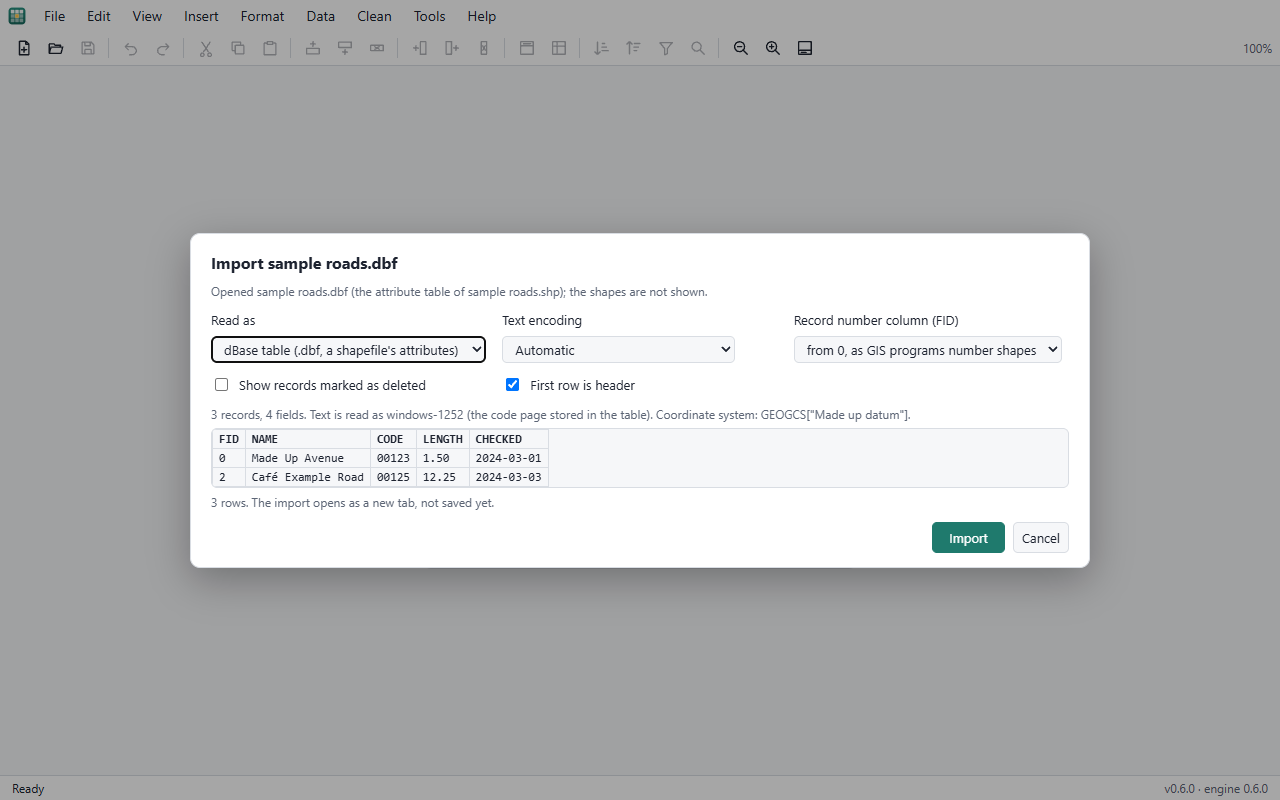
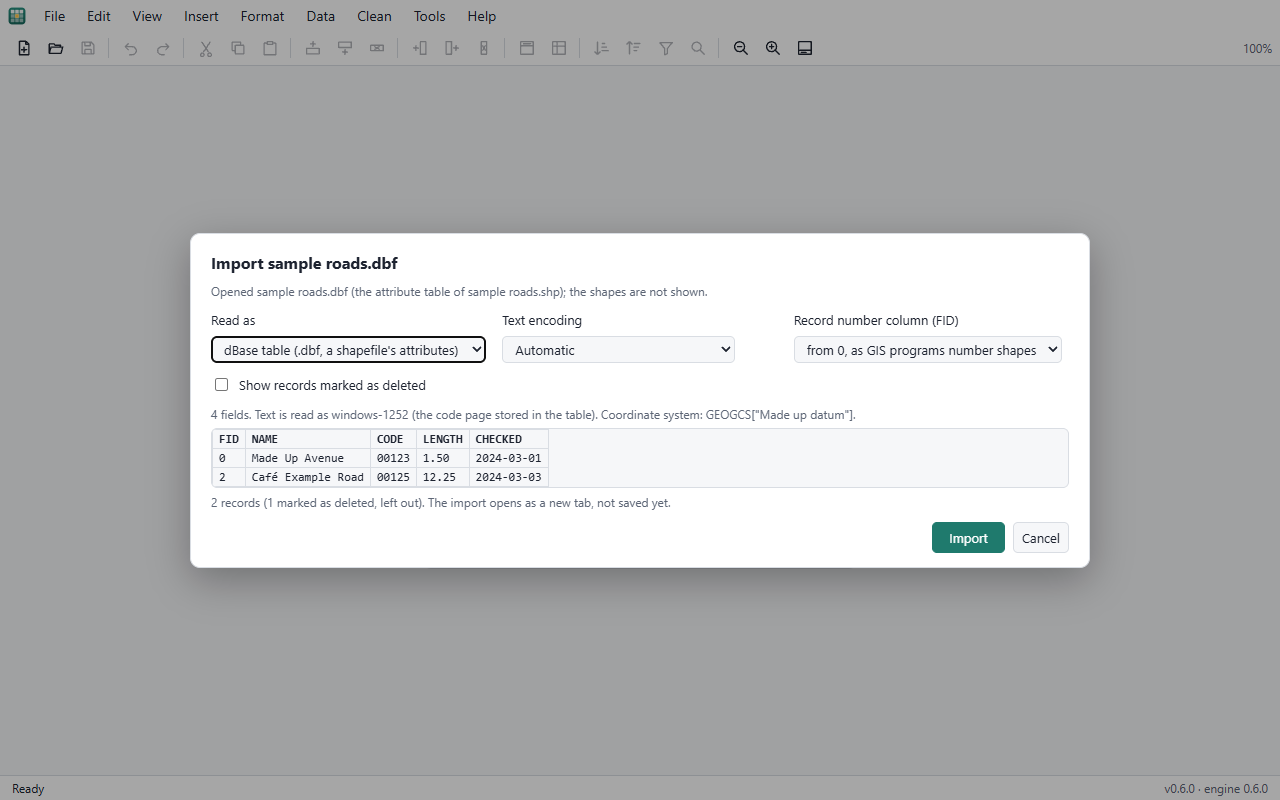
dBase import: blank FoxPro memos, no title-row tick, records counted

Changed region(s): [[0.1562, 0.4688, 0.7188, 0.5312], [0.1875, 0.625, 0.5, 0.6562]]

diff --git a/ui/src/lib/ImportDialog.svelte b/ui/src/lib/ImportDialog.svelte
@@ -11,7 +11,7 @@
   import { looksLikeHeader } from "./header";
   import { FORMAT_NAMES } from "./transfer";
   import { LOG_PRESETS, toggleStart } from "./m8";
-  import { DBF_ENCODINGS } from "./dbf";
+  import { DBF_ENCODINGS, headerChoice, importHeader, previewLine } from "./dbf";
 
   interface Props {
     start: ImportStart;
@@ -122,7 +122,7 @@
   function run(): void {
     if (problem || loading || rows.length === 0) return;
     if (notes?.remember_path && notes.padded.length > 0) void rememberPad(notes.remember_path, !!o.pad_zeros);
-    onImport($state.snapshot(o), header, $state.snapshot(notes));
+    onImport($state.snapshot(o), importHeader(info.format, header), $state.snapshot(notes));
   }
 </script>
 
@@ -191,7 +191,9 @@
         </select>
       </label>
     {/if}
-    <label class="row"><input type="checkbox" bind:checked={header} onchange={() => (headerTouched = true)} /> First row is header</label>
+    {#if headerChoice(info.format)}
+      <label class="row"><input type="checkbox" bind:checked={header} onchange={() => (headerTouched = true)} /> First row is header</label>
+    {/if}
   </div>
   {#if info.format === "pattern"}
     <label class="wide">Pattern for a line (a regular expression; each group in brackets is a column, <code>(?P&lt;name&gt;…)</code> names it)
@@ -227,14 +229,14 @@
     <table>
       <tbody>
         {#each rows.slice(0, 100) as r, i (i)}
-          <tr class:head={i === 0 && header}>
+          <tr class:head={i === 0 && importHeader(info.format, header)}>
             {#each Array.from({ length: width }, (_, c) => r[c] ?? "") as v, c (c)}<td>{v}</td>{/each}
           </tr>
         {/each}
       </tbody>
     </table>
   </div>
-  <p class="note">{loading ? "Reading…" : rows.length >= 100 ? "Showing the first 100 rows." : `${rows.length.toLocaleString()} rows.`} The import opens as a new tab, not saved yet.</p>
+  <p class="note">{loading ? "Reading…" : previewLine(info.format, rows.length, notes?.records)} The import opens as a new tab, not saved yet.</p>
   {#if problem}<p class="problem" role="alert">{problem}</p>{/if}
   {#snippet buttons()}
     <button type="button" class="primary" onclick={run} disabled={!!problem || loading || rows.length === 0}>Import</button>

diff --git a/ui/src/lib/dbf.test.ts b/ui/src/lib/dbf.test.ts
@@ -1,0 +1,21 @@
+import { describe, expect, it } from "vitest";
+import dialog from "./ImportDialog.svelte?raw";
+import { headerChoice, importHeader, previewLine } from "./dbf";
+
+describe("the import screen for a dBase table", () => {
+  it("offers no title-row choice: the field names are the titles", () => {
+    expect(headerChoice("dbf")).toBe(false);
+    expect(headerChoice("json")).toBe(true);
+    expect(importHeader("dbf", false)).toBe(true);
+    expect(importHeader("delimited", false)).toBe(false);
+    expect(dialog).toContain("{#if headerChoice(info.format)}");
+    expect(dialog).toContain("importHeader(info.format, header)");
+  });
+  it("counts records, never the title row", () => {
+    expect(previewLine("dbf", 3, "2 records (1 marked as deleted, left out)")).toBe("2 records (1 marked as deleted, left out).");
+    expect(previewLine("dbf", 3, undefined)).toBe("Counting the records\u2026");
+    expect(previewLine("json", 3, undefined)).toBe("3 rows.");
+    expect(previewLine("json", 100, undefined)).toBe("Showing the first 100 rows.");
+    expect(dialog).toContain("previewLine(info.format, rows.length, notes?.records)");
+  });
+});

diff --git a/ui/src/lib/dbf.ts b/ui/src/lib/dbf.ts
@@ -1,3 +1,21 @@
+import type { ImportFormat } from "./backend";
+
+/** A dBase table's titles are always its field names: the import screen offers no choice about it. */
+export function headerChoice(format: ImportFormat | null): boolean {
+  return format !== "dbf";
+}
+
+/** Whether the imported table's first row holds titles. */
+export function importHeader(format: ImportFormat | null, ticked: boolean): boolean {
+  return headerChoice(format) ? ticked : true;
+}
+
+/** The line under the preview. `rows` counts the preview's rows; a dBase table says its records instead. */
+export function previewLine(format: ImportFormat | null, rows: number, records: string | undefined): string {
+  if (format === "dbf") return records ? `${records}.` : "Counting the records\u2026";
+  return rows >= 100 ? "Showing the first 100 rows." : `${rows.toLocaleString()} rows.`;
+}
+
 // The encodings offered for a dBase (.dbf) table: [label sent to the engine, name shown].
 export const DBF_ENCODINGS: [string, string][] = [
   ["", "Automatic"],

diff --git a/ui/src/lib/backend.ts b/ui/src/lib/backend.ts
@@ -1388,6 +1388,8 @@ export interface ImportNotes {
   /** The file to remember the zero-padding answer for (none: the clipboard or a private file). */
   remember_path: string | null;
   summary: string;
+  /** dBase: the record count, said under the preview. */
+  records?: string;
 }
 export interface SqliteOpened {
   info: DocInfo;

diff --git a/src-tauri/src/imports.rs b/src-tauri/src/imports.rs
@@ -53,8 +53,7 @@ impl Session {
 /// why, the coordinate system and the warnings (field names and counts only).
 fn dbf_summary(info: &DbfInfo, warnings: &[String]) -> String {
     let mut s = format!(
-        "{}, {}. Text is read as {} ({}).",
-        count_of(info.records, "record", "records"),
+        "{}. Text is read as {} ({}).",
         count_of(u64::from(info.fields), "field", "fields"),
         info.encoding,
         info.rule
@@ -71,6 +70,24 @@ fn dbf_summary(info: &DbfInfo, warnings: &[String]) -> String {
             s.push_str(c.as_str());
             s.push('.');
         }
+    }
+    s
+}
+
+/// "2 records (1 marked as deleted, left out)": the records the table will hold.
+fn dbf_records(info: &DbfInfo, show_deleted: bool) -> String {
+    let shown = if show_deleted {
+        info.records
+    } else {
+        info.records - info.deleted
+    };
+    let mut s = count_of(shown, "record", "records");
+    if info.deleted > 0 {
+        s.push_str(&format!(
+            " ({} marked as deleted, {})",
+            info.deleted,
+            if show_deleted { "shown" } else { "left out" }
+        ));
     }
     s
 }
@@ -111,6 +128,9 @@ pub struct ImportNotes {
     pub remember_path: Option<String>,
     /// One sentence for the status line and the import screen (empty when no guard did anything).
     pub summary: String,
+    /// dBase: how many records there are, said under the preview (a record count is what a GIS
+    /// program shows, so the title row is never in it).
+    pub records: String,
 }
 
 /// "A", "B", ... "AA" for a column number counted from 0.
@@ -166,6 +186,7 @@ pub fn notes_of(st: &SheetStats, names: &[String], scanned: u64, all: bool) -> I
         all_scanned: all,
         remember_path: None,
         summary: String::new(),
+        records: String::new(),
     };
     let mut parts: Vec<String> = Vec::new();
     if st.kept_big > 0 {
@@ -360,6 +381,7 @@ impl Imports {
             )?;
             return Ok(ImportNotes {
                 summary: dbf_summary(&info, &st.warnings),
+                records: dbf_records(&info, opts.dbf.show_deleted),
                 scanned_rows: info.records.min(NOTES_ROWS),
                 all_scanned: info.records < NOTES_ROWS,
                 ..Default::default()
@@ -482,6 +504,26 @@ mod tests {
 
     /// A1a: the summary holds counts and column names only (never a cell value), and says plainly what
     /// could not be kept.
+    #[test]
+    fn dbf_record_counts_leave_out_the_title_row() {
+        let mut info = DbfInfo {
+            records: 3,
+            deleted: 1,
+            ..Default::default()
+        };
+        assert_eq!(
+            dbf_records(&info, false),
+            "2 records (1 marked as deleted, left out)"
+        );
+        assert_eq!(
+            dbf_records(&info, true),
+            "3 records (1 marked as deleted, shown)"
+        );
+        info.deleted = 0;
+        info.records = 1;
+        assert_eq!(dbf_records(&info, false), "1 record");
+    }
+
     #[test]
     fn notes_hold_counts_and_names_only() {
         let st = SheetStats {

diff --git a/crates/engine/src/dbf.rs b/crates/engine/src/dbf.rs
@@ -117,6 +117,8 @@ pub fn shapefile_table(path: &Path) -> Option<PathBuf> {
 pub struct DbfInfo {
     /// Records that can be read, deleted ones included.
     pub records: u64,
+    /// Records among them marked as deleted.
+    pub deleted: u64,
     pub fields: u32,
     /// The encoding text is read with, and which rule chose it.
     pub encoding: String,
@@ -534,8 +536,13 @@ pub fn inspect(data: &[u8], side: &Sidecars, opts: &DbfOptions) -> Result<DbfInf
     let mut warnings = h.warnings.clone();
     warnings.extend(notes);
     warnings.extend(side.problems.iter().cloned());
+    let deleted = data[h.start..h.start + h.records as usize * h.record_len]
+        .chunks_exact(h.record_len)
+        .filter(|r| r[0] == b'*')
+        .count() as u64;
     Ok(DbfInfo {
         records: h.records,
+        deleted,
         fields: h.fields.iter().filter(|f| !f.hidden).count() as u32,
         encoding: decoder.name(),
         rule,
@@ -788,10 +795,9 @@ impl Reader<'_> {
                 };
                 match number {
                     Some(0) => {}
-                    Some(_) if fox || self.h.version == 0xF5 => {
-                        t.fox_memo += 1;
-                        out.push_str("(memo not read)");
-                    }
+                    // Left blank: a placeholder would be saved, and joined
+                    // back into the GIS data, as if it were the value.
+                    Some(_) if fox || self.h.version == 0xF5 => t.fox_memo += 1,
                     Some(n) => match &self.memos {
                         Some(m) => match m.get(n)? {
                             Memo::Text(b) => {

diff --git a/crates/engine/tests/gis.rs b/crates/engine/tests/gis.rs
@@ -150,6 +150,8 @@ fn fid_counts_deleted_records() {
         read(&data).0,
         [vec!["FID", "A"], vec!["0", "one"], vec!["2", "six"]]
     );
+    let info = dbf::inspect(&data, &Sidecars::default(), &DbfOptions::default()).unwrap();
+    assert_eq!((info.records, info.deleted), (3, 1));
     let all = DbfOptions {
         fid: Fid::From1,
         show_deleted: true,
@@ -406,7 +408,7 @@ fn visual_foxpro_types_and_nulls() {
                 "2023-02-24 01:02:03.004",
                 "ab",
                 "42",
-                "(memo not read)"
+                ""
             ],
             vec!["0", "0", "0.0000", "", "sixsix", "", ""],
         ]
